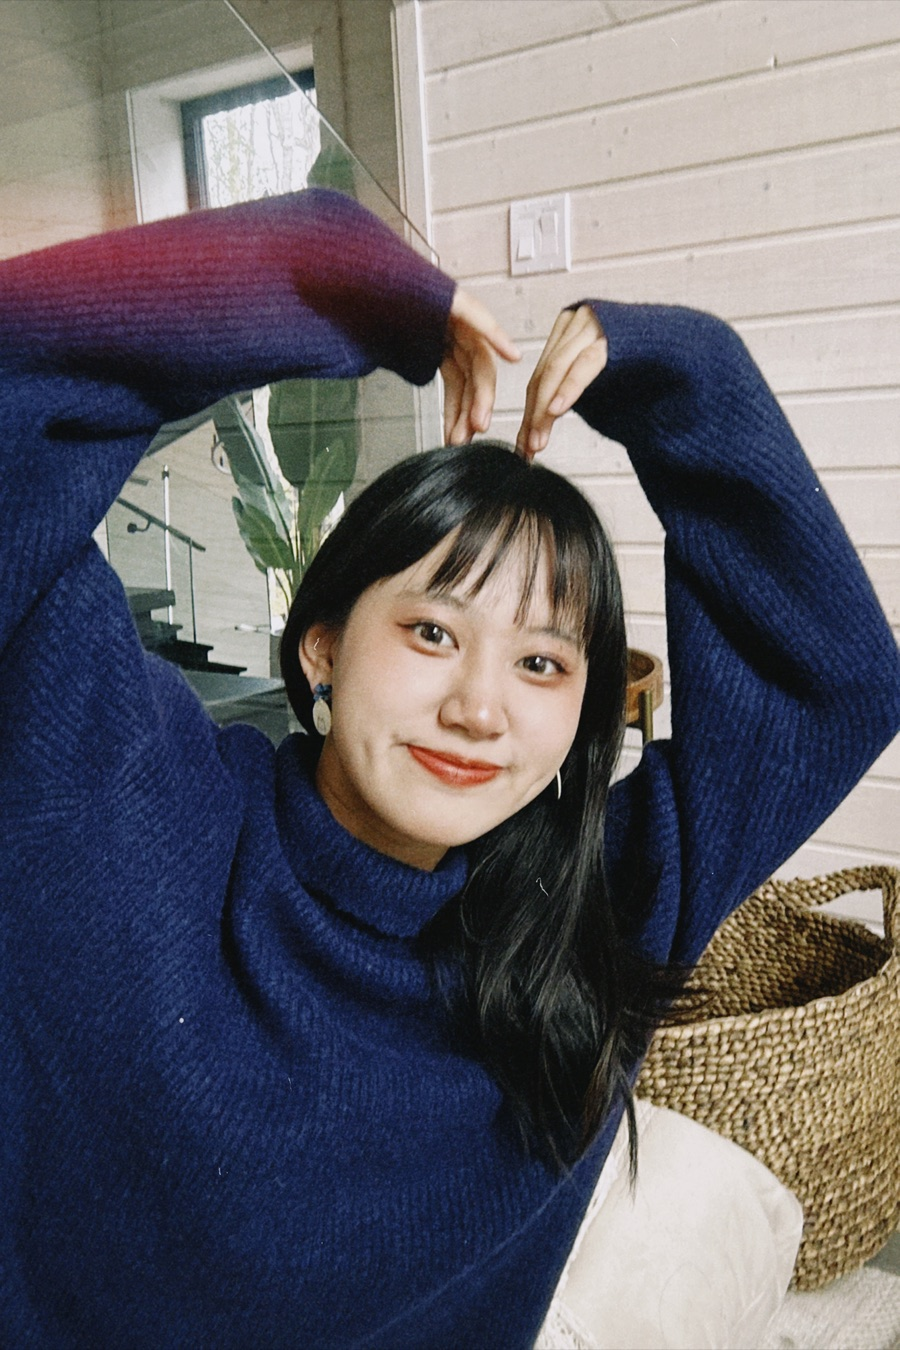
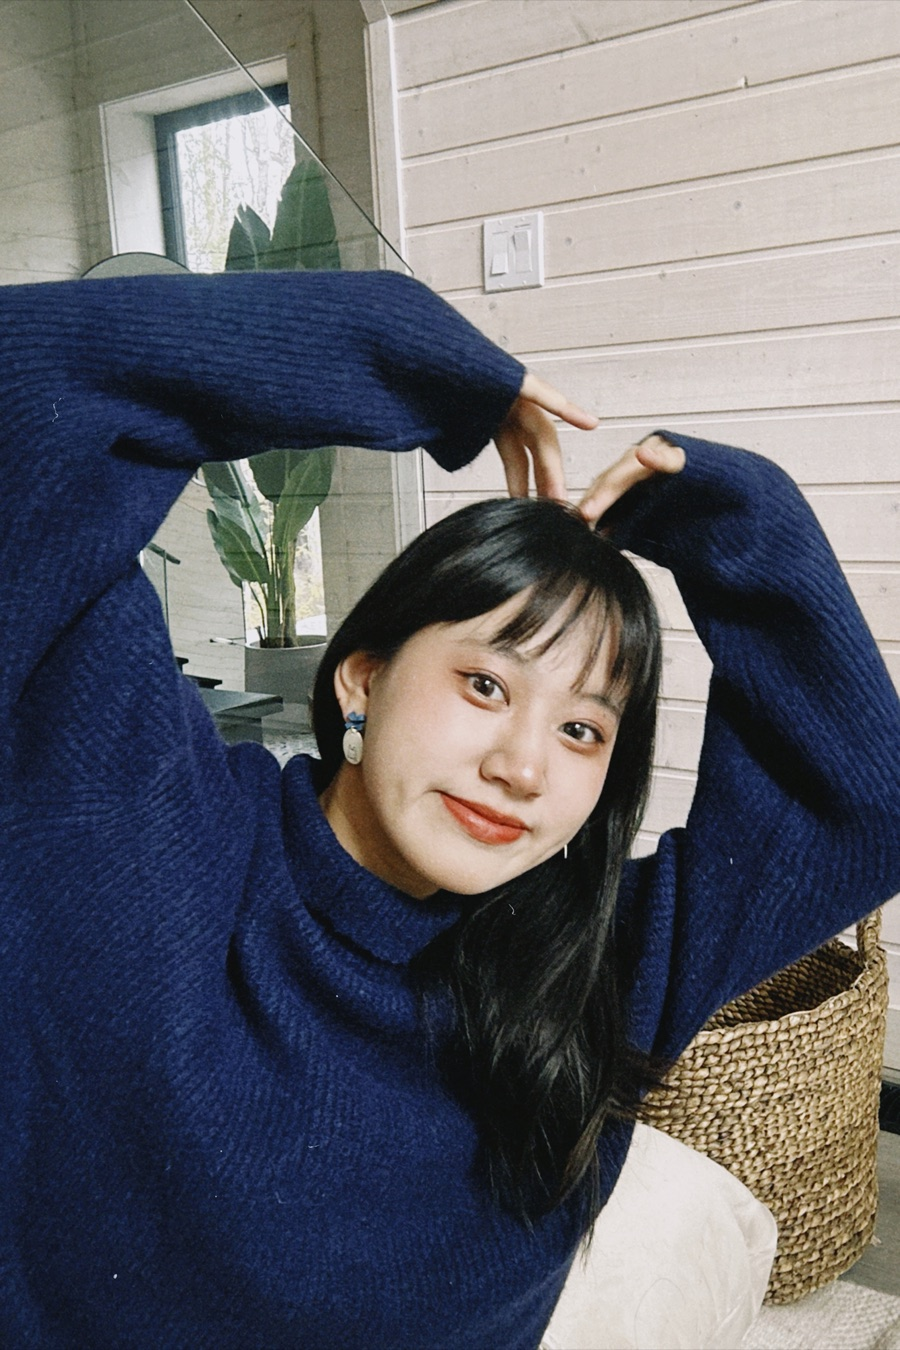
About: replace portrait with corrected photo (cache-busted)

diff --git a/about.html b/about.html
@@ -28,14 +28,15 @@
     <p class="lead">UX Designer &amp; Researcher — Toronto, Canada</p>
 
     <section class="jgroup">
-      <h2>General</h2>
+      <h2>Hi! I'm Vera!</h2>
       <div class="general-wrap">
         <div class="art-body">
-          <p>Hi! I’m Vera, a UX designer and researcher based in Toronto. I studied Information (User Experience Design) at the University of Toronto, and before that Finance at the University of Alberta, which is probably why I’m as comfortable in a spreadsheet as in a Figma file：）</p>
+          <p>A UX designer and researcher based in Toronto. I studied Information (User Experience Design) at the University of Toronto, and before that Finance at the University of Alberta, which is probably why I’m as comfortable in a spreadsheet as in a Figma file：）</p>
           <p>I like the messy middle of design: the interviews, the card sorts, the patterns that only appear once you’ve talked to enough people. Give me a hard question and a blank canvas and I’m genuinely happy.</p>
           <p>I’ve worked as a design researcher at RBC on their online banking platform, and I care most about the moments where research actually changes what gets built.</p>
+          <p>Outside of work, I’m a gamer! 🎮 I love the Legend of Zelda series so much⚔! (I can’t wait for the release of Ocarina of Time!) Recently, I’ve been obsessed with Pokopia... Also, I love drawing! You can see one of my watercolour paintings below. I’m also a big fan of manga, and I sometimes draw my own too.</p>
         </div>
-        <img class="about-photo" src="assets/about-portrait.jpg" alt="Vera Zheng" />
+        <img class="about-photo" src="assets/about-portrait.jpg?v=2" alt="Vera Zheng" />
       </div>
     </section>
 
